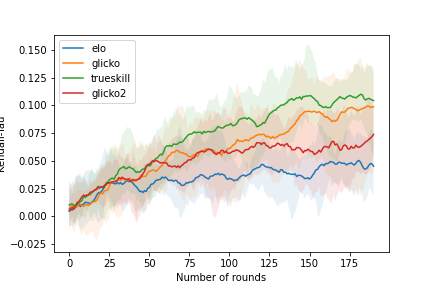
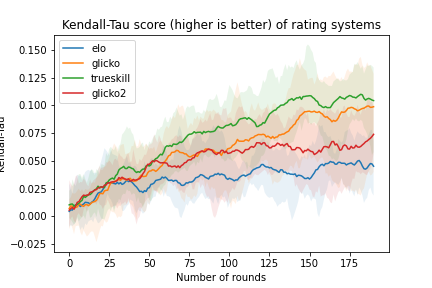
updated plot titles

Changed region(s): [[0.1204, 0.0625, 0.8727, 0.125]]

diff --git a/rate_rating_systems.py b/rate_rating_systems.py
@@ -20,7 +20,7 @@ def moving_average(a, n=3):
     return ret[n - 1:] / n
 
 
-ratingevaluationdataset = pd.read_csv(r"dataset\ChessRatings2\primary_training_part1.csv")
+ratingevaluationdataset = pd.read_csv(r"dataset\ChessRatings2\primary_training_part1_processed.csv")
 
 """
 All rating systems should implement 1 class and 3 functions
@@ -538,7 +538,7 @@ def compare_results_rating_evaluation(list_of_obj_loss, moving_window=1000, lege
     plt.figure()
     for obj in list_of_obj_loss:
         plt.plot(np.round(moving_average(obj.loglosses[obj.loglosses != 0], n=moving_window), decimals=7))
-    plt.title('logloss ' + title_details)
+    plt.title('' + title_details)
     if legend:
         plt.legend(legend)
 
@@ -576,7 +576,7 @@ def scenario1():
         glicko2cons.append(glicko2con)
 
     compare_results_convergence_multi([elocons, glickocons, tscons, glicko2cons], legend=['elo', 'glicko', 'trueskill', 'glicko2'], moving_window=10,
-                                      title_details='')
+                                      title_details='Kendall-Tau score (higher is better) of rating systems')
 
 
 def scenario2():
@@ -595,7 +595,7 @@ def scenario2():
 
     compare_results_rating_evaluation([elosim, glickosim, tssim, glicko2sim],
                                       legend=['elo', 'glicko', 'trueskill', 'glicko2'], moving_window=5000,
-                                      title_details='(window=10/1000, p_count=500, steps=200 , draw=0)')
+                                      title_details='Logloss (moving average=5000, lower is better) of rating systems')
 
 
 headless = False
